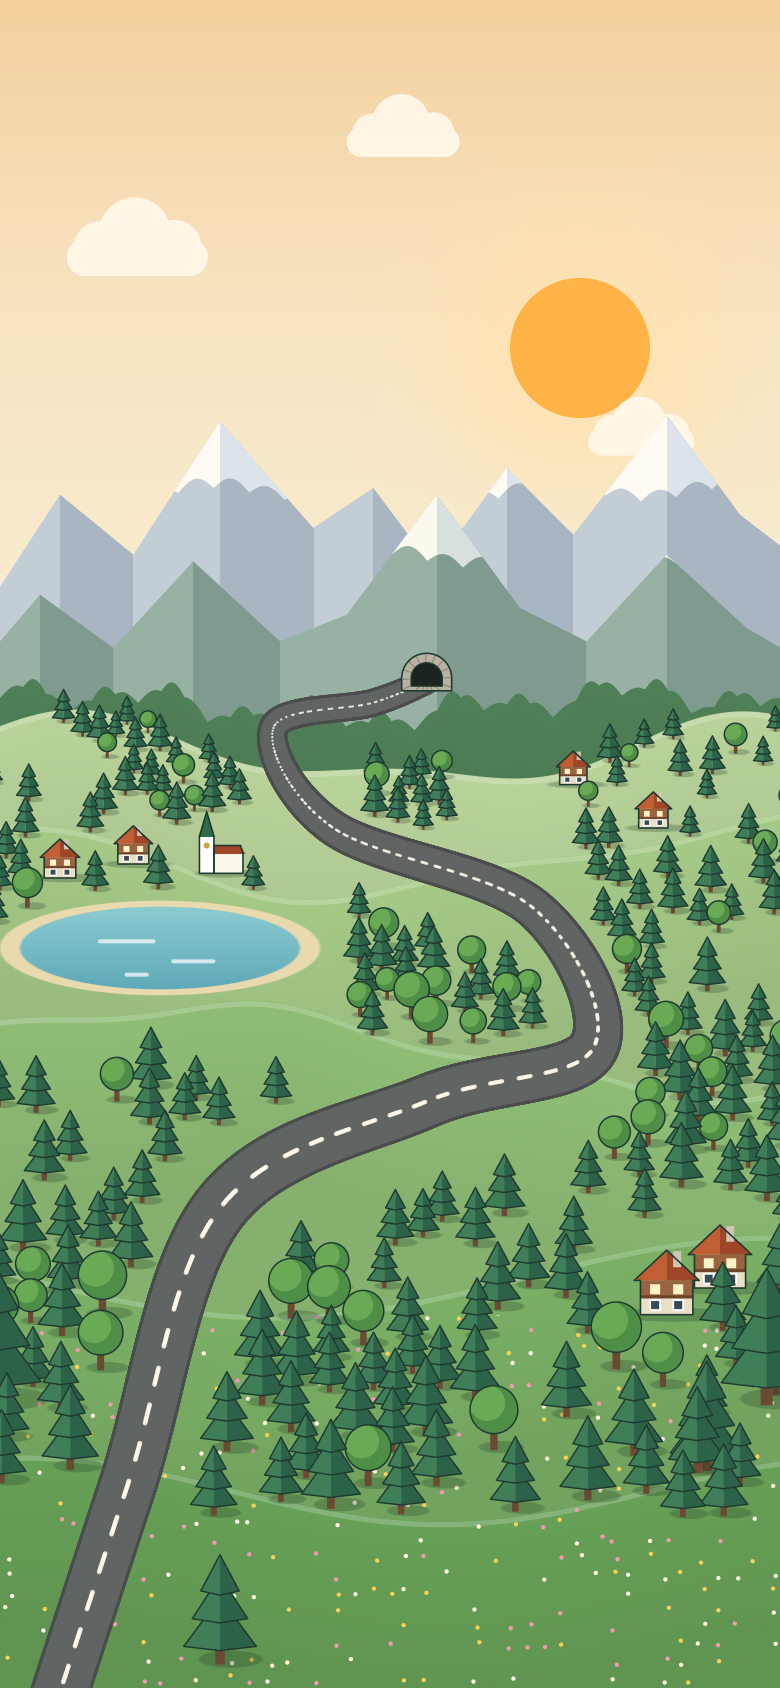
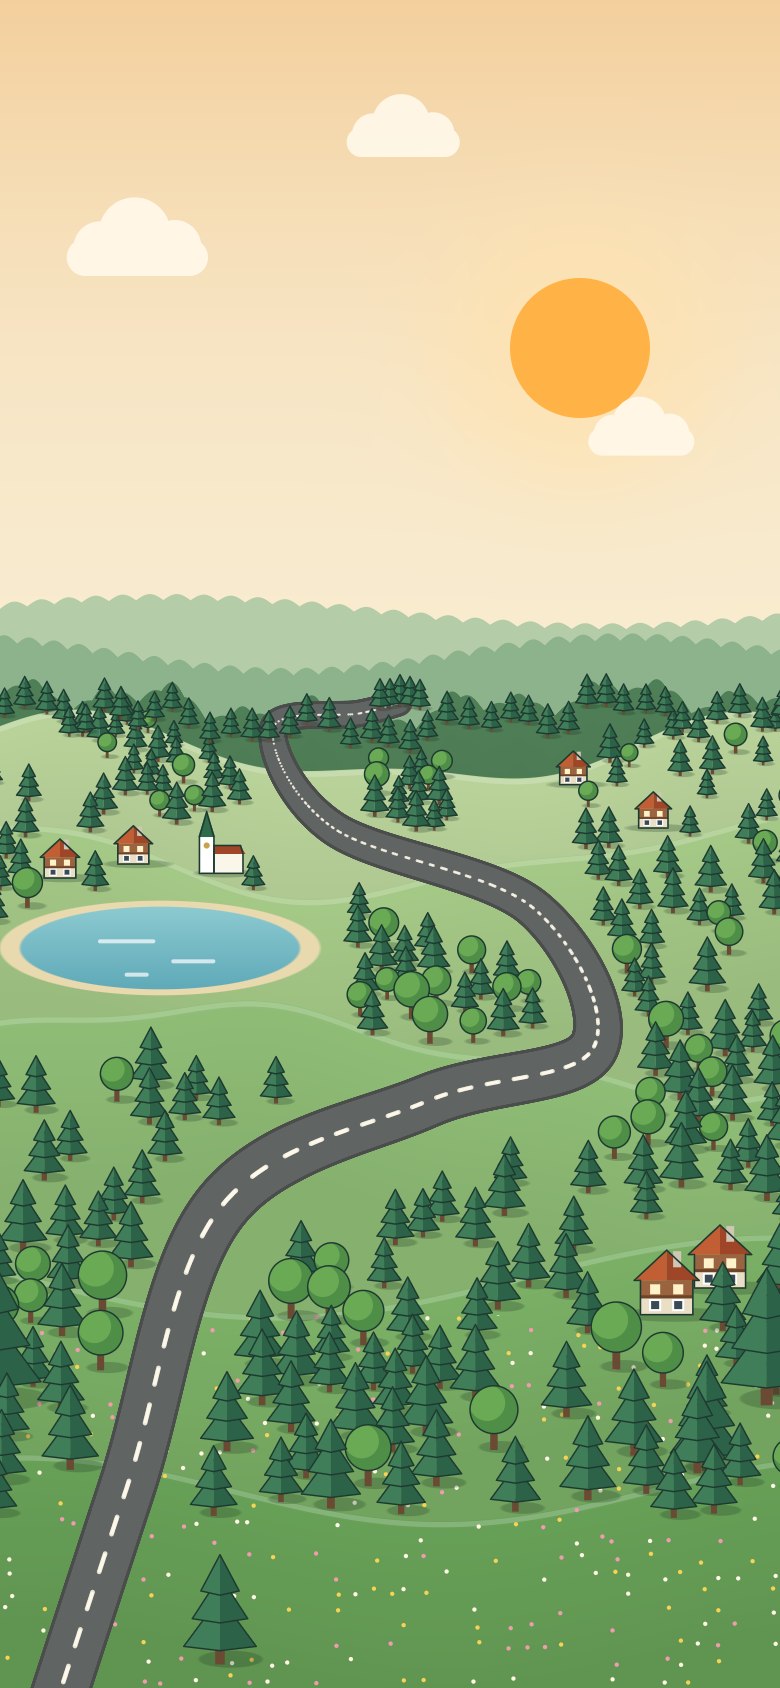
Map: no mountains; the road runs into the forest on the horizon

diff --git a/Assets/Scripts/Editor/MapArtGenerator.cs b/Assets/Scripts/Editor/MapArtGenerator.cs
@@ -9,8 +9,8 @@ namespace SomeGame.EditorTools
 {
     /// <summary>
     /// Paints the map screen's landscape into Assets/Art/Rally/MapBackground.png: warm sky and sun,
-    /// low-poly snowy mountains, rolling meadows, a lake with a village, pine forests and the winding
-    /// mountain road of <see cref="MapLayout"/>. Works in map canvas units (1170 x 2532, origin bottom
+    /// hazy forest bands on the horizon, rolling meadows, a lake with a village, pine forests and the
+    /// winding forest road of <see cref="MapLayout"/>, which disappears behind the trees on the horizon. Works in map canvas units (1170 x 2532, origin bottom
     /// left) and renders at <see cref="Scale"/> of that size.
     /// </summary>
     public static class MapArtGenerator
@@ -34,32 +34,14 @@ namespace SomeGame.EditorTools
                     _px[py * _w + px] = Landscape((px + 0.5f) / Scale, (py + 0.5f) / Scale);
 
             Road();
-            Tunnel();
             Objects();
+            HorizonTrees();
             Sdf.WritePixels(ArtGenerator.Folder, "MapBackground", _w, _h, _px, 100, false, 0, compress: true);
             _px = null;
             Debug.Log("Map art generated");
         }
 
         // ================================================================== landscape layers
-
-        static readonly Vector2[] FarRidge =
-        {
-            new(-60, 1560), new(90, 1790), new(200, 1700), new(330, 1900), new(470, 1740), new(560, 1800),
-            new(650, 1680), new(760, 1830), new(860, 1730), new(1000, 1910), new(1110, 1760), new(1240, 1660),
-        };
-        static readonly Vector2[] MidRidge =
-        {
-            new(-60, 1500), new(60, 1640), new(170, 1560), new(290, 1690), new(420, 1570), new(520, 1610),
-            new(655, 1790), new(780, 1620), new(880, 1570), new(1000, 1700), new(1120, 1590), new(1240, 1520),
-        };
-
-        static float Ridge(Vector2[] pts, float x)
-        {
-            for (int i = 1; i < pts.Length; i++)
-                if (x <= pts[i].x) return Mathf.Lerp(pts[i - 1].y, pts[i].y, Mathf.InverseLerp(pts[i - 1].x, pts[i].x, x));
-            return pts[^1].y;
-        }
 
         // Rolling meadows from back to front: (top edge, colour).
         static float Hill(int i, float x) => i switch
@@ -90,8 +72,9 @@ namespace SomeGame.EditorTools
             c = Over(c, Hex("FFB347"), Cov(sun));
             c = Clouds(c, x, y);
 
-            c = Mountain(c, x, y, FarRidge, Hex("A9B6C2"), Hex("C3CDD5"), 1790f, Hex("FFFBF2"), Hex("DCE3EA"));
-            c = Mountain(c, x, y, MidRidge, Hex("7F9B8F"), Hex("97B1A3"), 1690f, Hex("FBF8EE"), Hex("D7E0DE"));
+            // Distant forest: two hazy bands of tree tops above the near forest.
+            c = Over(c, Hex("B5CCA8"), Cov(y - (1610f + 22f * Mathf.Sin(x / 210f + 0.4f) + 9f * Mathf.Abs(Mathf.Sin(x / 13f)))));
+            c = Over(c, Hex("8DB38D"), Cov(y - (1545f + 26f * Mathf.Sin(x / 160f + 2f) + 11f * Mathf.Abs(Mathf.Sin(x / 12f + 1f)))));
 
             for (int i = 0; i < HillColors.Length; i++)
             {
@@ -137,19 +120,6 @@ namespace SomeGame.EditorTools
             return Over(c, Hex("FFF7E8"), Cov(d) * 0.95f);
         }
 
-        // Low-poly mountain range: lit slopes face left, snow above the snow line.
-        static Color Mountain(Color c, float x, float y, Vector2[] ridge, Color shade, Color lit, float snowLine, Color snowLit, Color snowShade)
-        {
-            float top = Ridge(ridge, x);
-            float d = y - top;
-            if (d > 3f / Scale) return c;
-            bool leftFacing = Ridge(ridge, x + 1f) > Ridge(ridge, x - 1f);
-            c = Over(c, leftFacing ? lit : shade, Cov(d));
-            float snowEdge = snowLine + 16f * Mathf.Abs(Mathf.Sin(x / 17f)) + 10f * Mathf.Sin(x / 41f);
-            c = Over(c, leftFacing ? snowLit : snowShade, Cov(d) * Cov(snowEdge - y));
-            return c;
-        }
-
         static float Cov(float d) => Mathf.Clamp01(0.5f - d * Scale);
 
         // ================================================================== road
@@ -176,28 +146,6 @@ namespace SomeGame.EditorTools
                 float period = Mathf.Max(18f, w * 0.75f);
                 if (Mathf.Repeat(dist, period) < period * 0.5f) Disc(p, Mathf.Max(1.6f, w * 0.045f), new Color(1f, 0.98f, 0.92f, 0.85f));
             }
-        }
-
-        // Where the road meets the mountain it disappears into a stone tunnel portal.
-        static void Tunnel()
-        {
-            var s = MapLayout.Samples;
-            Vector2 end = s[^1];
-            float w = MapLayout.WidthAt(end.y);
-            float outer = w * 1.25f, mouth = w * 0.78f;
-            Vector2 c = end + new Vector2(0f, w * 0.15f);
-            // Stone arch: half disc on a short wall, with block joints.
-            float Arch(float x, float y, float r) => Mathf.Max(Mathf.Min(Circle(x, y, c.x, c.y, r), RoundRect(x, y, c.x, c.y - r * 0.25f, r, r * 0.25f, 0.5f)), c.y - r * 0.5f - y);
-            Shape(Box(c, outer + 4f), (x, y) => Arch(x, y, outer), Hex("B9B2A2"));
-            Shape(Box(c, outer + 4f), (x, y) =>
-            {
-                float a = Mathf.Atan2(y - c.y, x - c.x) * Mathf.Rad2Deg;
-                float joint = Mathf.Abs(Mathf.Repeat(a + 9f, 22.5f) - 11.25f) * Mathf.Deg2Rad * Dist(x, y, c.x, c.y);
-                return Mathf.Max(Mathf.Max(Arch(x, y, outer - 1.5f), -Arch(x, y, mouth + 1.5f)), joint - 0.9f);
-            }, Hex("8E8878"));
-            Shape(Box(c, outer + 4f), (x, y) => Arch(x, y, mouth), Hex("1C2420"));
-            Shape(Box(c, outer + 4f), (x, y) => Shell(Arch(x, y, outer), 1.2f), Outline);
-            Shape(Box(c, outer + 4f), (x, y) => Shell(Arch(x, y, mouth), 1f), Outline);
         }
 
         static void Disc(Vector2 c, float r, Color color) =>
@@ -284,6 +232,21 @@ namespace SomeGame.EditorTools
 
             items.Sort((a, b) => b.y.CompareTo(a.y)); // far (high) first
             foreach (var (_, draw) in items) draw();
+        }
+
+        // A row of small pines along the near forest edge; it also hides the end of the road, so the road
+        // seems to run on into the forest.
+        static void HorizonTrees()
+        {
+            var rng = new System.Random(5);
+            var trees = new List<Vector2>();
+            for (float x = -20f; x < 1200f; x += 24f + (float)rng.NextDouble() * 10f)
+                trees.Add(new Vector2(x, Hill(0, x) - 26f - (float)rng.NextDouble() * 14f));
+            // A few extra right where the road ends.
+            Vector2 end = MapLayout.Samples[^1];
+            for (int i = -2; i <= 2; i++) trees.Add(new Vector2(end.x + i * 15f, end.y - 4f - Mathf.Abs(i) * 3f));
+            trees.Sort((a, b) => b.y.CompareTo(a.y));
+            foreach (var t in trees) Pine(t, 0.42f + (float)rng.NextDouble() * 0.08f);
         }
 
         static void Pine(Vector2 p, float s)

diff --git a/Assets/Scripts/UI/MapLayout.cs b/Assets/Scripts/UI/MapLayout.cs
@@ -4,7 +4,7 @@ using UnityEngine;
 namespace SomeGame.UI
 {
     /// <summary>
-    /// The mountain road on the map screen, in canvas units of the 1170 x 2532 map picture (origin at
+    /// The forest road on the map screen, in canvas units of the 1170 x 2532 map picture (origin at
     /// the bottom left). Shared by the painter that bakes the landscape and by <see cref="MapScreen"/>,
     /// which places the race stops, the progress line and the car on the same road.
     /// </summary>
@@ -12,11 +12,11 @@ namespace SomeGame.UI
     {
         public static readonly Vector2 Size = new(1170f, 2532f);
 
-        // The road winds up from the bottom of the screen, past the race stops, into the mountain pass.
+        // The road winds up from the bottom of the screen, past the race stops, into the forest.
         static readonly Vector2[] Points =
         {
             new(40f, -160f), new(190f, 300f), new(330f, 720f), new(640f, 880f), new(890f, 960f),
-            new(800f, 1170f), new(500f, 1290f), new(410f, 1440f), new(560f, 1478f), new(640f, 1510f),
+            new(800f, 1170f), new(500f, 1290f), new(410f, 1440f), new(540f, 1462f), new(600f, 1478f),
         };
 
         /// <summary>Index into the control points of each stop: race 1, race 2, then the "more soon" teaser.</summary>
@@ -42,7 +42,7 @@ namespace SomeGame.UI
         public static Vector2 StopPosition(int index) => Points[StopPoints[index]];
 
         /// <summary>Road width at a height on the map: narrower further up (into the distance).</summary>
-        public static float WidthAt(float y) => Mathf.Lerp(78f, 30f, Mathf.InverseLerp(800f, 1510f, y));
+        public static float WidthAt(float y) => Mathf.Lerp(78f, 30f, Mathf.InverseLerp(800f, 1478f, y));
 
         public static Vector2 PointAt(float distance, out Vector2 tangent)
         {

diff --git a/docs/PROTOTYPE.md b/docs/PROTOTYPE.md
@@ -3,7 +3,7 @@
 Top-down arcade racer for iPhone, portrait, one thumb, in an **Alpine Rally** look: a flat, illustrated
 style in warm cream, pine green and rally orange, with hard drop shadows. The race track has
 red-and-white kerbs and sandy run-off in the corners, tyre piles, lush bushes, pines, chalets, fields and
-barns. The start screen is a painted alpine valley with a mountain road. All art is generated in the
+barns. The start screen is a painted forest valley with a winding road. All art is generated in the
 Editor:
 - `SomeGame > Generate Art`: UI shapes, icons, car, track textures and the scenery atlas.
 - `SomeGame > Generate Map Art`: the map picture.
@@ -17,9 +17,9 @@ Fonts: Barlow and Barlow Condensed (SIL Open Font License, `Assets/Art/Fonts/Bar
 1. Open `Assets/Scenes/Map.unity` (first scene in the build), pick **iPhone Portrait (1170x2532)** in
    the Game view and press Play. (Opening `Race.unity` directly also works for quick testing; it then
    uses the scene's own setup and gives no stars.)
-2. **Map:** a mountain road winds up the valley past the race stops (for now **Meadow Run** and
-   **Pine Pass**). After them comes a "?" stop (**MORE SOON**), and the road disappears into a tunnel
-   at the foot of the mountain. Your car waits on the road before the latest race you have reached, and the
+2. **Map:** a road winds up through the forest past the race stops (for now **Meadow Run** and
+   **Pine Pass**). After them comes a "?" stop (**MORE SOON**), and the road disappears into the forest
+   on the horizon. Your car waits on the road before the latest race you have reached, and the
    road behind you is orange. Tap a stop to select it. The top shows its name, laps, rivals and
    best time; the bottom shows the star times and **START**.
    Rules:
@@ -75,7 +75,7 @@ Fonts: Barlow and Barlow Condensed (SIL Open Font License, `Assets/Art/Fonts/Bar
 | Lap count, countdown step | `RaceManager` (the lap count is overridden by the level when started from the map) |
 | Races: name, chapter, track, laps, rival count and strength, star times, stars required | `Assets/Data/Levels/Level01-02.asset` (`LevelDefinition`), order in `LevelCatalog.asset`. Tracks: `Circuit01`, `Circuit02` (reversed `Circuit01R`, `Circuit02R` are unused for now) |
 | Map road, race stop positions, road width | `Assets/Scripts/UI/MapLayout.cs` (then `SomeGame > Generate Map Art`, since the road is painted into the picture) |
-| Map landscape (mountains, hills, lake, village, forest) | `Assets/Scripts/Editor/MapArtGenerator.cs` |
+| Map landscape (forest horizon, hills, lake, village, trees) | `Assets/Scripts/Editor/MapArtGenerator.cs` |
 | Colours of the whole UI | `Assets/Scripts/UI/Theme.cs` (then rebuild the UI from the menu) |
 | UI layout | `Assets/Scripts/Editor/UIBuilder.cs`. Rebuilding replaces the Map scene and the Race scene's `UI` canvas, so hand edits to the UI are lost |
 | Car look | The car is an off-road buggy in two layers: `Car.png` (bodywork and roll cage, tinted with the car colour; dark cockpit, seats and wheels) and `CarDetails.png` (belts, steering wheel, lights, spare wheel; untinted). Both are generated by `ArtGenerator`. Colours: `PlayerCar.prefab` (orange) and `Rival1-3` in the scene (blue, yellow, purple), sprite colour of `Visual`. `Shadow` is a soft drop shadow. Size: `Visual` scale (1.35) |
